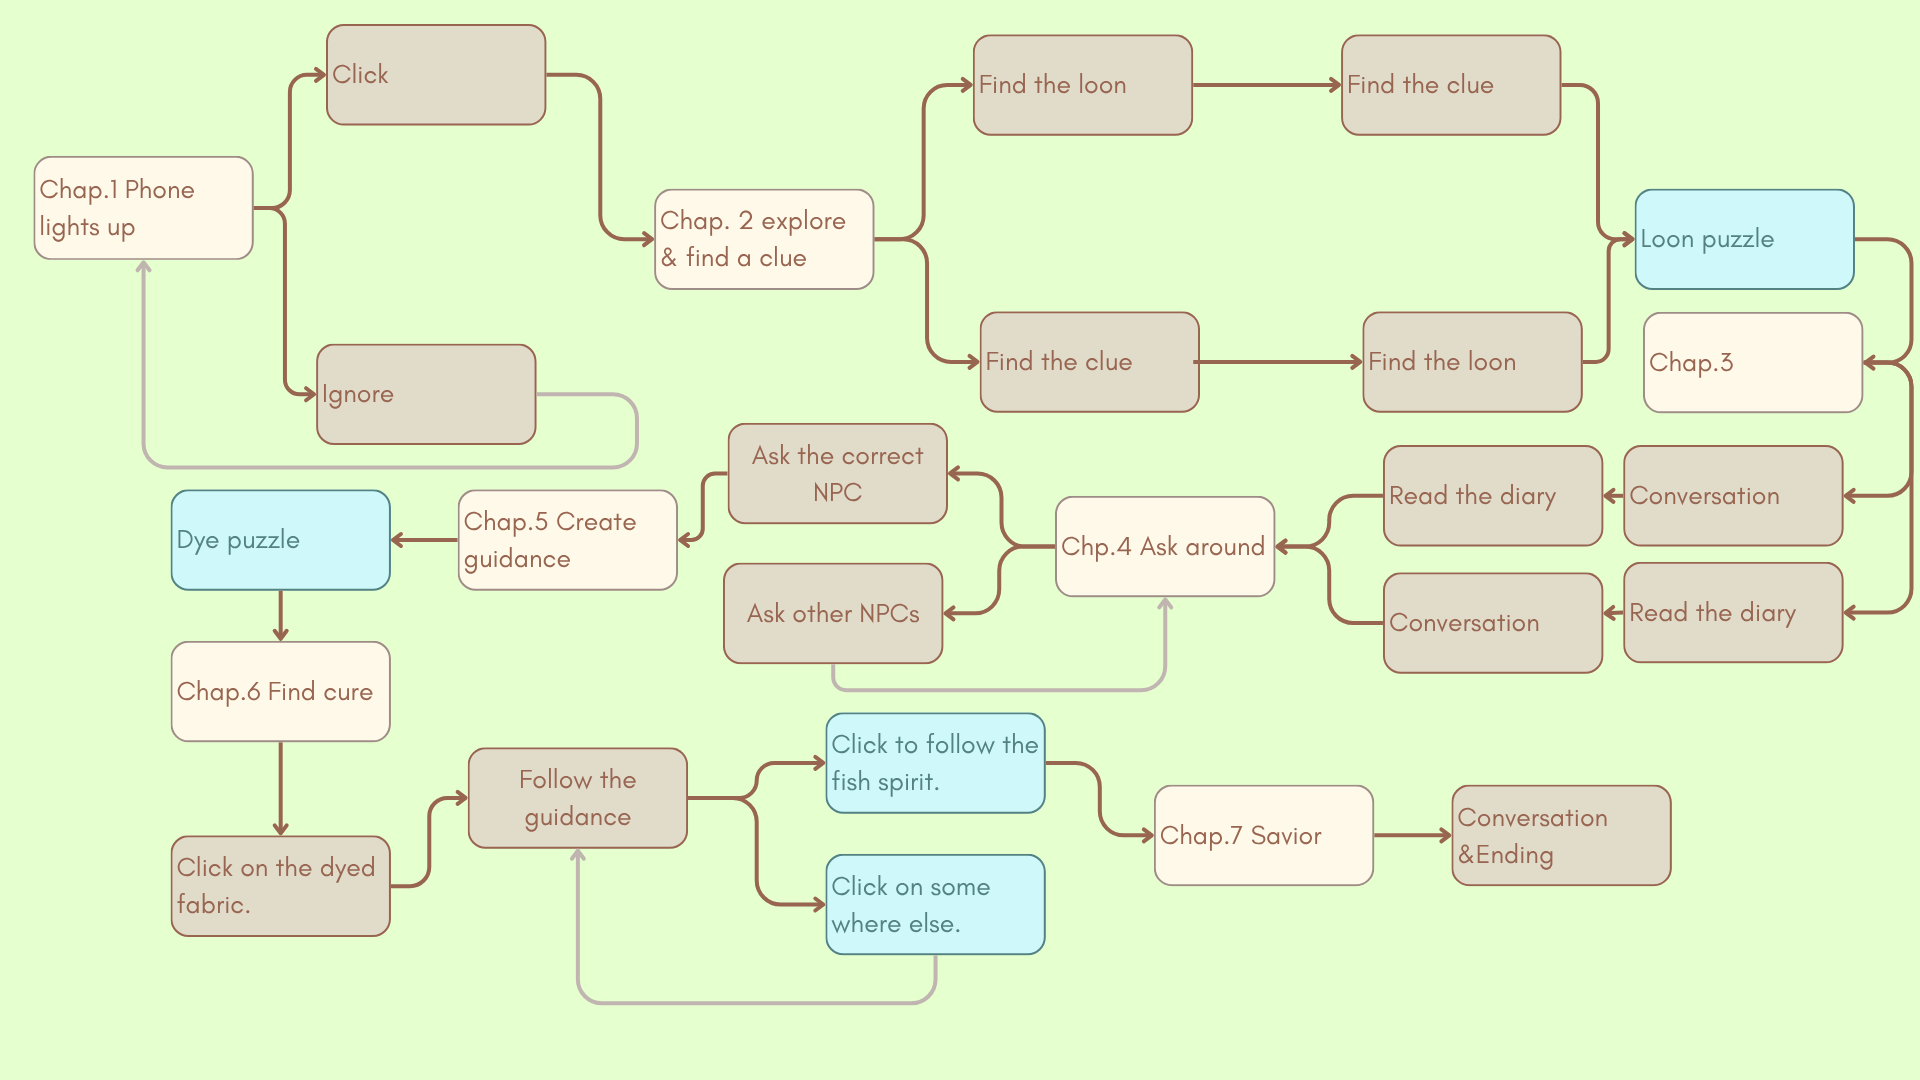
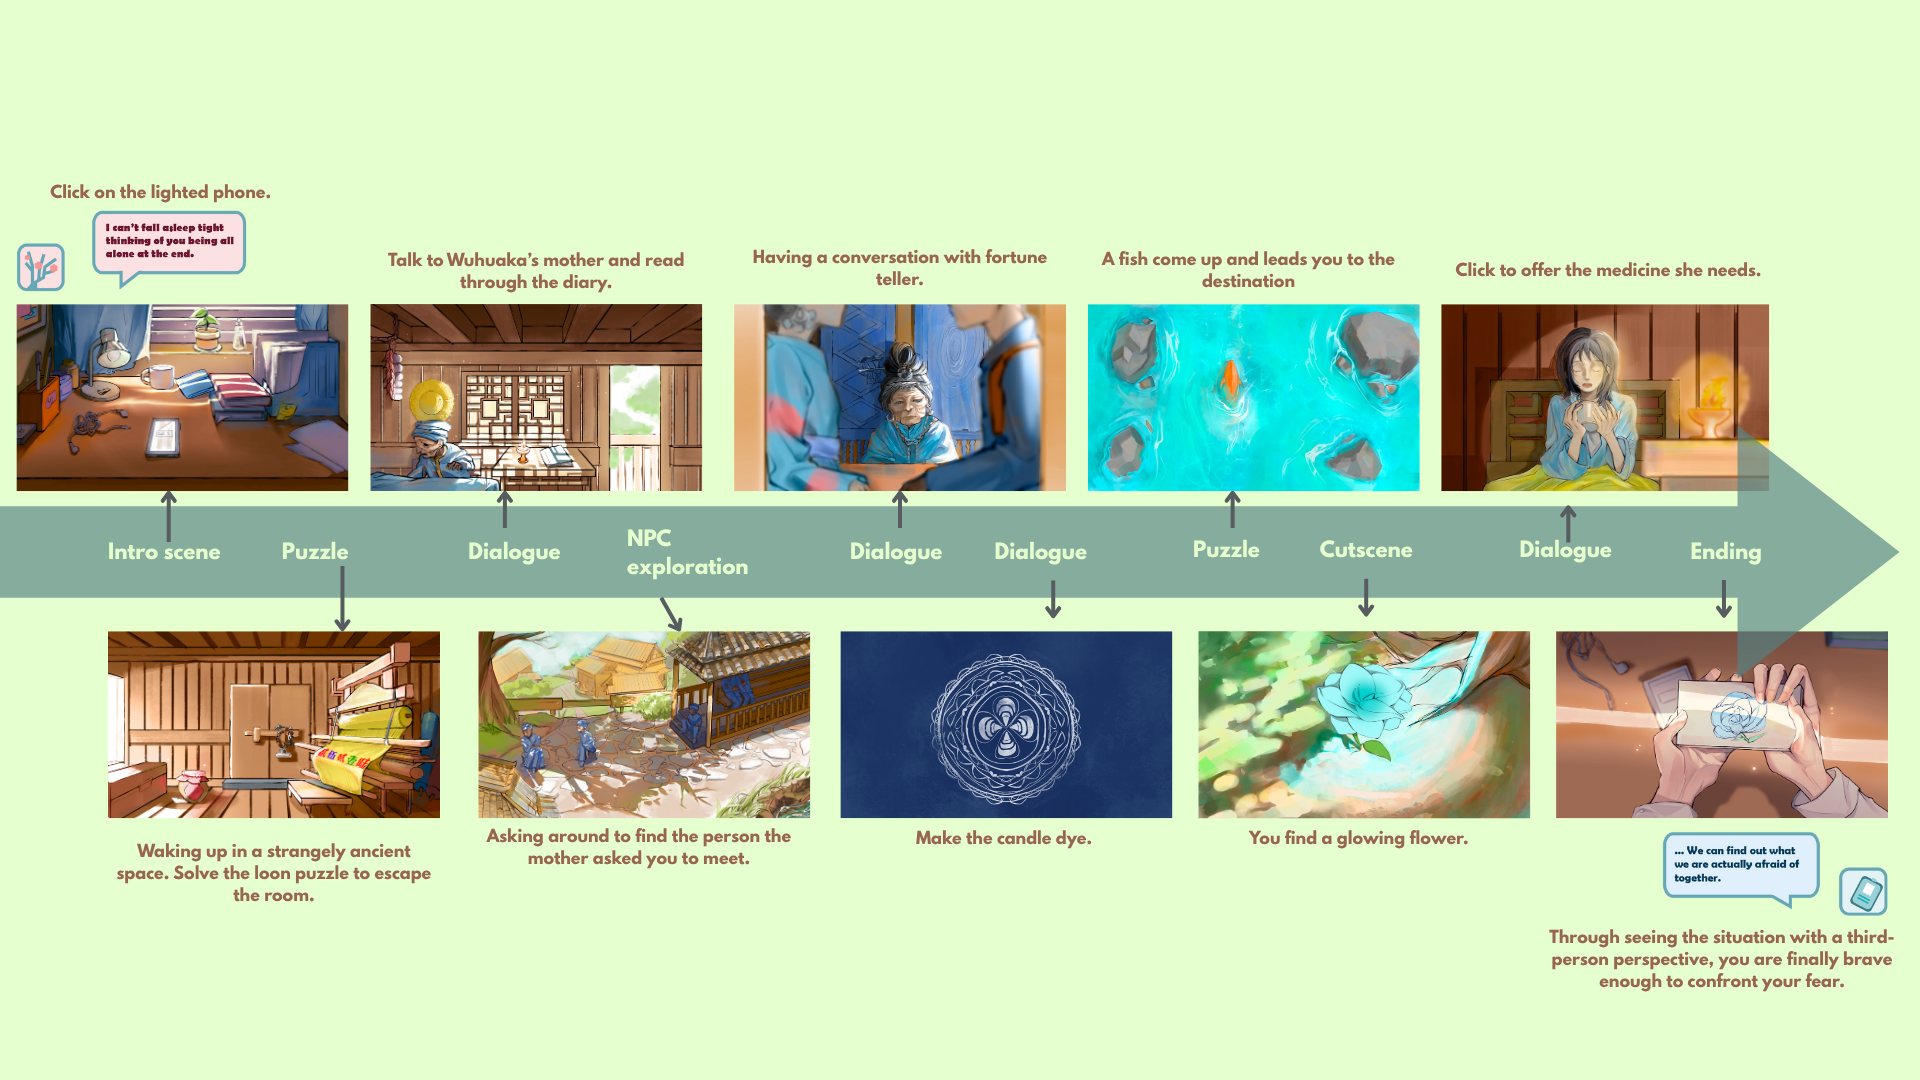
?

diff --git a/Project1.html b/Project1.html
@@ -206,7 +206,7 @@
   <div class="art-section">
     <div class="art-title"><h1>Game Flow</h1></div>
     <div class="art-content img">
-      <img src="p1Narrative.png" alt="Narrative Flow Diagram" class="narrative-img" />
+      <img src="p1gameFlow.png" alt="Narrative Flow Diagram" class="narrative-img" />
     </div>
   </div>
 
